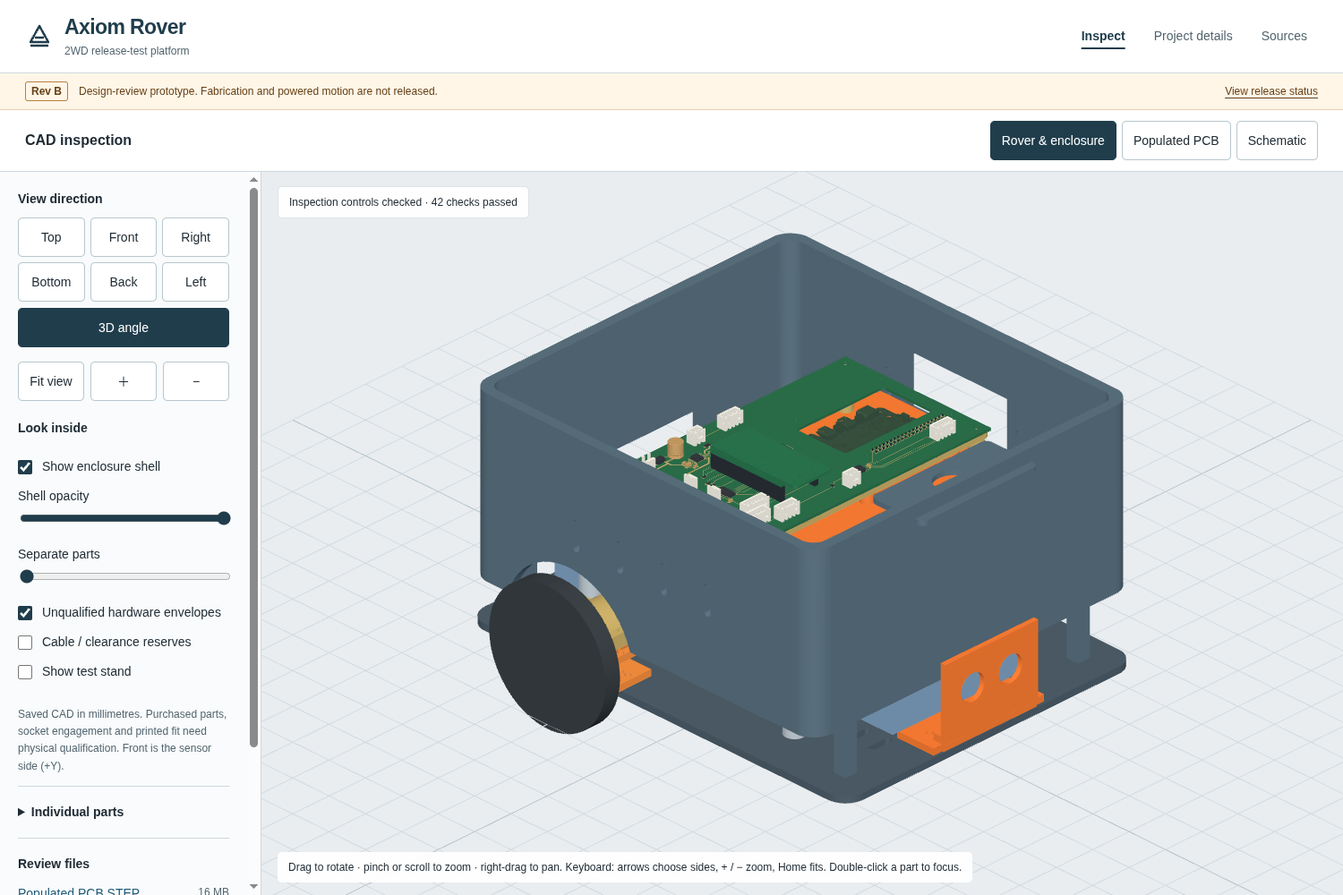
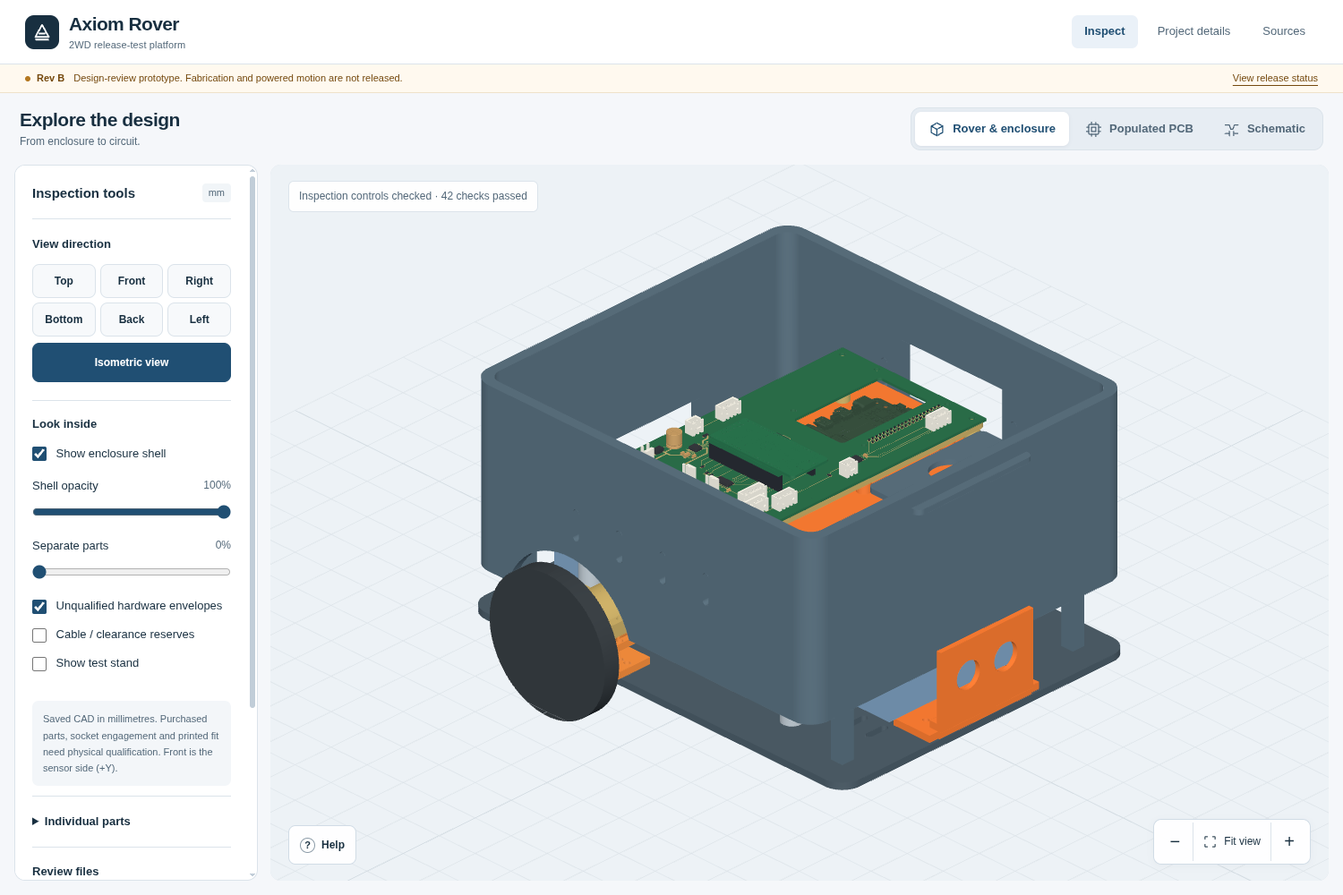
feat(viewer): refine inspection workbench and project UI

diff --git a/viewer/styles.css b/viewer/styles.css
@@ -1,5 +1,194 @@
-:root{color-scheme:light;--ink:#202c35;--muted:#52646e;--blue:#203d4c;--line:#ced8dd;--paper:#fff;--ground:#e9edf0;--accent:#956024;font:14px/1.5 system-ui,-apple-system,BlinkMacSystemFont,"Segoe UI",sans-serif;color:var(--ink);background:#f7f9fa}
-*{box-sizing:border-box}body{margin:0}a{color:#205a79;text-underline-offset:3px}a:hover{color:#102f42}button,input,select{font:inherit}button{min-height:44px;border:1px solid #b8c6ce;background:#fff;color:var(--ink);border-radius:5px;padding:8px 12px;cursor:pointer}button:hover:not(:disabled){background:#e9f0f4}button[aria-pressed=true]{background:var(--blue);border-color:var(--blue);color:white}button:disabled{cursor:default;opacity:.5}:focus-visible{outline:3px solid #1479ac;outline-offset:3px}[hidden]{display:none!important}.skip-link{position:fixed;left:16px;top:-80px;z-index:20;background:white;padding:12px}.skip-link:focus{top:12px}.site-header{min-height:82px;display:flex;align-items:center;justify-content:space-between;gap:20px;padding:16px 28px;background:var(--paper);border-bottom:1px solid var(--line)}.brand{display:flex;gap:12px;align-items:center;text-decoration:none;color:var(--blue);font-size:23px;font-weight:750;line-height:1.2;letter-spacing:-.6px}.brand small{display:block;font-size:12px;font-weight:450;letter-spacing:0;color:var(--muted);margin-top:5px}.site-nav{display:flex;gap:8px}.site-nav a{padding:10px 12px;text-decoration:none;color:var(--muted)}.site-nav a[aria-current=page]{color:var(--blue);font-weight:650;text-decoration:underline;text-decoration-thickness:2px;text-underline-offset:8px}.review-banner{display:flex;align-items:center;gap:12px;padding:9px 28px;background:#fff6e8;border-bottom:1px solid #e6d3b5;font-size:12px;color:#674015}.review-banner a{color:inherit;margin-left:auto;white-space:nowrap}.revision{border:1px solid #b88037;border-radius:3px;padding:1px 6px;font-weight:700;white-space:nowrap}.inspection-bar{display:flex;align-items:center;gap:20px;padding:12px 28px;background:white;border-bottom:1px solid var(--line)}.inspection-bar h1{font-size:16px;margin:0;font-weight:600}.mode-tabs{display:flex;gap:6px;margin-left:auto}.viewer-page{height:100dvh;display:flex;flex-direction:column}.viewer-page main{display:grid;grid-template-columns:292px minmax(0,1fr);grid-template-areas:"controls stage";flex:1;min-height:0}.viewer-page aside{grid-area:controls;overflow:auto;padding:20px;background:#f9fbfc;border-right:1px solid var(--line)}fieldset{padding:0;margin:0 0 16px;border:0;min-width:0}legend,h2{font-size:14px;font-weight:700;margin:0 0 10px;padding:0}label{display:block;margin:12px 0}input[type=range]{width:100%;min-height:24px;accent-color:var(--blue)}input[type=checkbox]{accent-color:var(--blue);width:16px;height:16px;vertical-align:middle;margin:0 7px 0 0}.views{display:grid;grid-template-columns:repeat(3,1fr);gap:6px}.views button{padding:7px 3px}.row{display:flex;gap:7px;margin:10px 0 20px}.row button{flex:1}.full-width{width:100%;margin-top:7px}#stage{grid-area:stage;position:relative;min-width:0;min-height:0;overflow:hidden;background:var(--ground)}canvas{display:block;touch-action:none;width:100%;height:100%}#status{position:absolute;z-index:2;top:16px;left:18px;max-width:calc(100% - 36px);padding:8px 12px;background:#ffffffee;border:1px solid #dce3e7;border-radius:5px;font-size:12px;pointer-events:none}#hint{position:absolute;z-index:2;bottom:14px;left:18px;max-width:calc(100% - 36px);padding:8px 12px;background:#fffffff0;border-radius:5px;font-size:12px;pointer-events:none}#drawing{position:absolute;inset:0;overflow:hidden;background:#f7f5ef;touch-action:none}#drawing img{position:absolute;left:50%;top:50%;max-width:none;user-select:none;pointer-events:none}#load-error{position:absolute;z-index:3;top:50%;left:50%;transform:translate(-50%,-50%);width:min(440px,calc(100% - 32px));padding:24px;background:white;border:1px solid var(--line);border-radius:8px;box-shadow:0 4px 24px #203d4c14}#load-error strong{font-size:20px}#load-error a{display:block;margin-top:12px}#load-error p{overflow-wrap:anywhere}.note{font-size:12px;line-height:1.6;color:var(--muted)}details{border-top:1px solid var(--line);padding:14px 0}summary{cursor:pointer;font-weight:650;padding:4px 0}#parts label{font-size:12px;overflow-wrap:anywhere;min-height:26px;line-height:1.5}.downloads{border-top:1px solid var(--line);padding-top:18px}.downloads a{display:block;margin:12px 0}.downloads span{float:right;font-size:12px;color:var(--muted)}.mobile-controls{display:none}.no-script{position:absolute;z-index:4;inset:0;overflow:auto;background:var(--ground);padding:24px}.no-script img{max-width:100%;max-height:70%;object-fit:contain}.no-script p{max-width:60ch;background:white;padding:16px}.content{max-width:1040px;margin:auto;padding:48px 28px 64px}.content h1{font-size:clamp(30px,4vw,44px);line-height:1.15;letter-spacing:-1.3px;margin:0 0 20px;max-width:22ch}.lead{font-size:18px;line-height:1.65;max-width:62ch;color:var(--muted)}.content h2{font-size:24px;letter-spacing:-.5px;margin:38px 0 16px}.content h3{font-size:16px;margin:22px 0 8px}.content p,.content li{max-width:75ch}.content li{margin-bottom:10px}.project-intro{display:grid;grid-template-columns:1.1fr 1fr;gap:32px;align-items:center}.project-intro figure{margin:0}.project-intro img{width:100%;height:auto;border-radius:6px;border:1px solid var(--line)}.button-link{display:inline-block;background:var(--blue);color:#fff;text-decoration:none;border-radius:5px;padding:11px 16px;margin:8px 8px 8px 0}.button-link:hover{background:#305568;color:#fff}.specs{display:grid;grid-template-columns:1fr 1fr;gap:0 28px;margin:0}.specs>div{border-top:1px solid var(--line);padding:15px 0}.specs dt{font-weight:700;margin-bottom:5px}.specs dd{margin:0;color:var(--muted)}.release-box{padding:22px 24px;border-left:4px solid #b88037;background:#fff6e8}.release-box h2{margin-top:0}.resource-list{display:grid;grid-template-columns:1fr 1fr;gap:0 32px;padding:0;list-style:none}.resource-list li{border-top:1px solid var(--line);padding:14px 0;margin:0}.resource-list small{display:block;margin-top:6px;color:var(--muted)}.site-footer{border-top:1px solid var(--line);padding:24px 28px;display:flex;justify-content:space-between;gap:16px;color:var(--muted);font-size:12px}.site-footer a{margin-left:14px}html{scroll-padding-top:16px}
-@media(max-width:900px){.site-header{padding:14px 20px}.inspection-bar{padding:12px 20px;flex-wrap:wrap;gap:10px}.inspection-bar h1{font-size:14px}.mode-tabs button{font-size:13px;padding:8px 10px}.viewer-page main{grid-template-columns:252px minmax(0,1fr)}.review-banner{padding:9px 20px}.review-banner a{white-space:normal}.viewer-page aside{padding:16px}}
-@media(max-width:700px){.viewer-page{height:auto;min-height:100dvh}.site-header{padding:16px;align-items:flex-start;gap:14px;flex-wrap:wrap}.brand{font-size:22px}.site-nav{gap:0;margin-left:auto}.site-nav a{padding:8px;font-size:13px}.review-banner{padding:10px 16px;align-items:flex-start;gap:8px;flex-wrap:wrap}.review-banner>span:nth-child(2){flex:1;min-width:200px}.review-banner a{margin-left:0}.inspection-bar{padding:12px 16px;gap:10px}.inspection-bar h1{flex:1}.mode-tabs{order:3;flex-basis:100%;margin:0;gap:5px}.mode-tabs button{flex:1;padding:8px 5px;font-size:12px}.mobile-controls{display:inline-block;font-size:12px}.viewer-page main{display:flex;flex-direction:column;min-height:0}.viewer-page #stage{height:62dvh;min-height:360px;max-height:720px;flex:none}.viewer-page aside{padding:22px 20px;border-right:0;border-top:1px solid var(--line);overflow:visible}.viewer-page aside>.mobile-controls{float:right;margin-bottom:12px}#view-controls{clear:both}#status{top:10px;left:10px;max-width:calc(100% - 20px);font-size:11px}#hint{bottom:10px;left:10px;max-width:calc(100% - 20px);font-size:11px}.content{padding:32px 20px 44px}.project-intro{grid-template-columns:1fr;gap:20px}.project-intro img{max-width:520px}.specs,.resource-list{grid-template-columns:1fr}.lead{font-size:16px}.site-footer{padding:22px 20px;flex-direction:column}.site-footer a{margin:0 14px 0 0}}
-@media(prefers-reduced-motion:reduce){*,*::before,*::after{scroll-behavior:auto!important}}
+:root {
+  color-scheme: light;
+  --ink: #182f40;
+  --muted: #536879;
+  --blue: #204f73;
+  --line: #dbe3ea;
+  --paper: #fff;
+  --ground: #edf2f6;
+  --accent: #285fca;
+  font: 14px/1.55 system-ui, -apple-system, BlinkMacSystemFont, "Segoe UI", sans-serif;
+  color: var(--ink);
+  background: #f5f7fa;
+}
+* { box-sizing: border-box; }
+body { margin: 0; }
+a { color: var(--blue); text-underline-offset: 4px; }
+a:hover { color: #12344e; }
+button, input, select { font: inherit; }
+button { min-height: 44px; border: 1px solid var(--line); background: #fff; color: var(--ink); border-radius: 8px; padding: 8px 12px; cursor: pointer; font-weight: 550; }
+button:hover:not(:disabled) { background: #eef4fa; border-color: #9eafc2; }
+button[aria-pressed=true] { color: #fff; background: var(--blue); border-color: var(--blue); }
+button:disabled { cursor: default; opacity: .45; }
+:focus-visible { outline: 3px solid #3976d7; outline-offset: 3px; }
+[hidden] { display: none !important; }
+.icon { width: 19px; height: 19px; flex: none; fill: none; stroke: currentColor; stroke-width: 1.6; stroke-linecap: round; stroke-linejoin: round; vertical-align: middle; }
+.skip-link { position: fixed; left: 16px; top: -80px; z-index: 20; background: white; padding: 12px; }
+.skip-link:focus { top: 12px; }
+.site-header { min-height: 72px; display: flex; align-items: center; justify-content: space-between; gap: 24px; padding: 12px 28px; background: var(--paper); border-bottom: 1px solid var(--line); }
+.brand { display: flex; gap: 11px; align-items: center; color: var(--ink); text-decoration: none; font-size: 21px; font-weight: 750; line-height: 1.15; letter-spacing: -.6px; }
+.brand > svg { width: 38px; height: 38px; padding: 7px; border-radius: 10px; background: var(--ink); color: #fff; }
+.brand small { display: block; font-size: 11px; font-weight: 450; letter-spacing: .1px; color: var(--muted); margin-top: 5px; }
+.site-nav { display: flex; gap: 8px; align-items: center; }
+.site-nav a { padding: 8px 14px; border-radius: 7px; text-decoration: none; color: var(--muted); font-size: 13px; }
+.site-nav a:hover { background: #f3f6f9; }
+.site-nav a[aria-current=page] { color: var(--blue); background: #eaf1f8; font-weight: 650; }
+.review-banner { display: flex; align-items: center; gap: 10px; padding: 7px 28px; background: #fff9ef; border-bottom: 1px solid #eee2ca; font-size: 11px; color: #75490e; }
+.review-banner a { color: inherit; margin-left: auto; white-space: nowrap; }
+.revision { font-weight: 750; white-space: nowrap; }
+.revision::before { content: ""; display: inline-block; width: 6px; height: 6px; border-radius: 50%; background: #b47820; margin-right: 7px; vertical-align: middle; }
+.inspection-bar { display: flex; align-items: center; gap: 24px; padding: 16px 22px; }
+.inspection-title h1 { font-size: 21px; line-height: 1.2; letter-spacing: -.5px; margin: 0; font-weight: 700; }
+.inspection-title p { font-size: 12px; color: var(--muted); margin: 3px 0 0; }
+.mode-tabs { display: flex; gap: 3px; margin-left: auto; padding: 4px; border: 1px solid var(--line); background: #e7edf3; border-radius: 11px; }
+.mode-tabs button { display: flex; align-items: center; justify-content: center; gap: 8px; min-height: 38px; padding: 7px 15px; border: 0; color: var(--muted); background: transparent; font-size: 13px; border-radius: 7px; }
+.mode-tabs button:hover:not(:disabled) { background: #f5f8fb; }
+.mode-tabs button[aria-pressed=true] { color: var(--blue); background: white; box-shadow: 0 1px 4px #24394d14; }
+.viewer-page { height: 100dvh; display: flex; flex-direction: column; }
+.viewer-page main { display: grid; grid-template-columns: 272px minmax(0, 1fr); grid-template-areas: "controls stage"; gap: 14px; padding: 0 16px 16px; flex: 1; min-height: 0; }
+.viewer-page aside { grid-area: controls; overflow: auto; padding: 19px; background: var(--paper); border: 1px solid var(--line); border-radius: 12px; scrollbar-width: thin; scrollbar-color: #c1cdd8 transparent; }
+.panel-heading { display: flex; align-items: center; justify-content: space-between; padding-bottom: 17px; margin-bottom: 18px; border-bottom: 1px solid var(--line); }
+.panel-heading h2 { font-size: 15px; margin: 0; }
+.unit-label { font-size: 11px; color: var(--muted); background: #f1f5f8; padding: 2px 7px; border-radius: 4px; }
+fieldset { padding: 0; margin: 0 0 20px; border: 0; min-width: 0; }
+legend, h2 { font-size: 13px; font-weight: 700; margin: 0 0 12px; padding: 0; }
+label { display: block; margin: 12px 0; font-size: 13px; }
+input[type=range] { display: block; width: 100%; min-height: 24px; margin: 7px 0 0; accent-color: var(--blue); }
+input[type=checkbox] { accent-color: var(--blue); width: 16px; height: 16px; vertical-align: middle; margin: 0 7px 0 0; }
+.range-label { margin: 16px 0; }
+.range-label output { float: right; color: var(--muted); font-size: 12px; font-variant-numeric: tabular-nums; }
+.views { display: grid; grid-template-columns: repeat(3, 1fr); gap: 5px; }
+.views button { padding: 7px 3px; font-size: 12px; min-height: 38px; background: #f7f9fb; }
+.views button[aria-pressed=true] { color: var(--blue); background: #eaf1fb; border-color: #8bacd7; }
+.row { display: flex; gap: 7px; margin: 10px 0 16px; }
+.row button { flex: 1; font-size: 12px; padding: 7px; }
+.full-width { width: 100%; margin-top: 7px; font-size: 12px; }
+#rover-options, #pcb-options { border-top: 1px solid var(--line); padding-top: 16px; }
+#rover-options legend, #pcb-options legend { float: left; width: 100%; }
+#rover-options legend + *, #pcb-options legend + * { clear: both; }
+#stage { grid-area: stage; position: relative; min-width: 0; min-height: 0; overflow: hidden; background: var(--ground); border-radius: 12px; box-shadow: inset 0 0 0 1px #dce4eb; }
+canvas { display: block; touch-action: none; width: 100%; height: 100%; }
+#status { position: absolute; z-index: 2; top: 18px; left: 20px; max-width: calc(100% - 40px); padding: 7px 11px; background: #ffffffed; border: 1px solid #dce4eb; border-radius: 6px; font-size: 12px; color: var(--muted); pointer-events: none; }
+.viewport-tools { position: absolute; z-index: 3; bottom: 18px; left: 20px; right: 20px; display: flex; justify-content: space-between; align-items: flex-end; gap: 12px; pointer-events: none; }
+.viewport-tools > * { pointer-events: auto; }
+.viewport-help { position: relative; border: 0; padding: 0; }
+.viewport-help summary { display: flex; align-items: center; gap: 7px; min-height: 44px; padding: 9px 12px; border: 1px solid #d1dce6; background: #fffffff5; border-radius: 8px; font-size: 12px; font-weight: 550; list-style: none; cursor: pointer; }
+.viewport-help summary::-webkit-details-marker { display: none; }
+.viewport-help summary span { border: 1px solid #8d9ca9; border-radius: 50%; width: 17px; height: 17px; text-align: center; line-height: 15px; font-size: 11px; }
+.viewport-help[open] summary { background: var(--blue); color: #fff; border-color: var(--blue); }
+#hint { position: absolute; bottom: calc(100% + 10px); left: 0; width: 300px; max-width: calc(100vw - 40px); padding: 16px; background: #fff; border: 1px solid var(--line); border-radius: 10px; box-shadow: 0 5px 24px #223c5314; font-size: 12px; line-height: 1.75; margin: 0; }
+.zoom-controls { display: flex; padding: 3px; background: #fffffff5; border: 1px solid #d1dce6; border-radius: 9px; box-shadow: 0 2px 8px #273b4c0a; }
+.zoom-controls button { display: inline-flex; align-items: center; justify-content: center; gap: 8px; min-width: 40px; min-height: 38px; padding: 6px 11px; border: 0; background: transparent; font-size: 20px; font-weight: 450; }
+.zoom-controls #fit { font-size: 12px; border-left: 1px solid var(--line); border-right: 1px solid var(--line); border-radius: 0; }
+.zoom-controls .icon { width: 15px; height: 15px; }
+#drawing { position: absolute; inset: 0; overflow: hidden; background: #f7f5ef; touch-action: none; }
+#drawing img { position: absolute; left: 50%; top: 50%; max-width: none; user-select: none; pointer-events: none; }
+#load-error { position: absolute; z-index: 4; top: 50%; left: 50%; transform: translate(-50%, -50%); width: min(440px, calc(100% - 32px)); padding: 26px; background: white; border: 1px solid var(--line); border-radius: 12px; box-shadow: 0 6px 30px #203d4c14; }
+#load-error strong { font-size: 20px; }
+#load-error a { display: block; margin-top: 12px; }
+#load-error p { overflow-wrap: anywhere; }
+.note { font-size: 12px; line-height: 1.65; color: var(--muted); }
+.model-note { background: #f3f6f9; border-radius: 7px; padding: 11px 12px; font-size: 11px; }
+details { border-top: 1px solid var(--line); padding: 14px 0; }
+summary { cursor: pointer; font-weight: 650; padding: 4px 0; font-size: 13px; }
+#parts label { font-size: 12px; overflow-wrap: anywhere; min-height: 26px; line-height: 1.5; }
+.downloads { border-top: 1px solid var(--line); padding-top: 17px; }
+.downloads a { display: flex; justify-content: space-between; gap: 10px; padding: 9px 0; text-decoration: none; font-size: 12px; }
+.downloads a:hover { text-decoration: underline; }
+.downloads span { font-size: 10px; color: var(--muted); background: #f0f4f7; padding: 1px 5px; border-radius: 4px; align-self: center; white-space: nowrap; }
+.mobile-controls { display: none; }
+.no-script { position: absolute; z-index: 5; inset: 0; overflow: auto; background: var(--ground); padding: 24px; }
+.no-script img { max-width: 100%; max-height: 70%; object-fit: contain; }
+.no-script p { max-width: 60ch; background: white; padding: 16px; }
+.content { max-width: 1160px; margin: auto; padding: 58px 36px 72px; }
+.content h1 { font-size: clamp(34px, 4.2vw, 54px); font-weight: 720; line-height: 1.08; letter-spacing: -1.9px; margin: 0 0 24px; max-width: 18ch; }
+.lead { font-size: 18px; line-height: 1.7; max-width: 52ch; color: var(--muted); }
+.content h2 { font-size: 26px; letter-spacing: -.65px; margin: 44px 0 16px; }
+.content h3 { font-size: 16px; margin: 22px 0 8px; }
+.content p, .content li { max-width: 75ch; }
+.content li { margin-bottom: 10px; }
+.project-intro { display: grid; grid-template-columns: .85fr 1fr; gap: 44px; align-items: center; margin-bottom: 40px; }
+.project-intro figure { margin: 0; }
+.project-intro img { display: block; width: 100%; height: auto; border-radius: 14px; border: 1px solid #d2dde6; }
+.project-intro figcaption { padding: 10px 2px; font-size: 11px; }
+.hero-actions { display: flex; flex-wrap: wrap; align-items: center; gap: 18px; margin-top: 24px; }
+.hero-actions > a { display: inline-flex; align-items: center; white-space: nowrap; font-size: 13px; }
+.button-link { display: inline-flex; align-items: center; gap: 18px; background: var(--blue); color: white; text-decoration: none; border-radius: 8px; padding: 12px 17px; font-weight: 600; }
+.button-link:hover { background: #183e5b; color: white; }
+.page-index { display: flex; flex-wrap: wrap; gap: 8px 24px; padding: 18px 0; border-top: 1px solid var(--line); border-bottom: 1px solid var(--line); margin-bottom: 26px; }
+.page-index a { font-size: 13px; text-decoration: none; padding: 5px 0; font-weight: 600; }
+.page-index a:hover { text-decoration: underline; }
+.project-context { color: var(--muted); }
+.specs { display: grid; grid-template-columns: 1fr 1fr; gap: 0 40px; margin: 24px 0 38px; }
+.specs > div { border-top: 1px solid var(--line); padding: 18px 0; }
+.specs dt { font-size: 13px; font-weight: 700; margin-bottom: 8px; }
+.specs dd { margin: 0; color: var(--muted); font-size: 14px; line-height: 1.7; }
+.release-box { padding: 28px 30px; border: 1px solid #e7d6b9; border-left: 4px solid #b88037; background: #fffaef; border-radius: 0 12px 12px 0; }
+.release-box h2 { margin-top: 0; font-size: 23px; }
+.resource-list { display: grid; grid-template-columns: 1fr 1fr; gap: 0 32px; padding: 0; list-style: none; }
+.resource-list > * { border-top: 1px solid var(--line); padding: 18px 0; margin: 0; }
+.resource-list a { font-weight: 600; font-size: 14px; }
+.resource-list small { display: block; margin-top: 6px; color: var(--muted); font-size: 12px; }
+.credits-page .content { max-width: 900px; }
+.credits-page .content > ul { list-style: none; padding: 0; margin-top: 32px; }
+.credits-page .content > ul > li { padding: 20px 0; border-top: 1px solid var(--line); line-height: 1.8; }
+.site-footer { border-top: 1px solid var(--line); padding: 24px 28px; display: flex; justify-content: space-between; gap: 16px; color: var(--muted); font-size: 12px; }
+.site-footer a { margin-left: 14px; }
+html { scroll-padding-top: 20px; }
+@media (max-width: 1000px) {
+  .site-header { padding: 12px 20px; }
+  .inspection-bar { gap: 14px; }
+  .inspection-title h1 { font-size: 18px; }
+  .mode-tabs button { padding: 7px 10px; font-size: 12px; }
+  .viewer-page main { grid-template-columns: 250px minmax(0, 1fr); }
+  .viewer-page aside { padding: 16px; }
+  .review-banner { padding: 7px 20px; }
+  .project-intro { gap: 28px; }
+  .content { padding: 42px 28px 60px; }
+}
+@media (max-width: 700px) {
+  .viewer-page { height: auto; min-height: 100dvh; }
+  .site-header { padding: 13px 16px 10px; flex-wrap: wrap; gap: 12px; }
+  .brand { font-size: 20px; }
+  .brand > svg { width: 34px; height: 34px; }
+  .brand small { font-size: 10px; }
+  .site-nav { gap: 5px; width: 100%; }
+  .site-nav a { padding: 7px 13px; text-align: center; font-size: 12px; flex: 1; }
+  .review-banner { padding: 9px 16px; gap: 5px 8px; flex-wrap: wrap; }
+  .review-banner > span:nth-child(2) { flex: 1; min-width: 200px; }
+  .review-banner a { margin-left: 0; }
+  .inspection-bar { padding: 14px 14px 12px; flex-wrap: wrap; gap: 12px; }
+  .inspection-title { flex: 1; }
+  .inspection-title h1 { font-size: 18px; }
+  .inspection-title p { display: none; }
+  .mode-tabs { order: 3; width: 100%; margin: 0; gap: 2px; padding: 3px; }
+  .mode-tabs button { flex: 1; padding: 8px 5px; font-size: 11px; gap: 5px; }
+  .mode-tabs .icon { width: 15px; height: 15px; }
+  .mobile-controls { display: inline-block; font-size: 12px; }
+  .viewer-page main { display: flex; flex-direction: column; padding: 0; gap: 0; min-height: 0; }
+  .viewer-page #stage { height: 62dvh; min-height: 360px; max-height: 720px; flex: none; border-radius: 0; box-shadow: none; }
+  .viewer-page aside { padding: 22px 20px; border-radius: 0; border: 0; border-top: 1px solid var(--line); overflow: visible; }
+  .viewer-page aside > .mobile-controls { display: block; margin: -5px 0 20px; }
+  .panel-heading { margin-bottom: 14px; }
+  .views button { min-height: 44px; }
+  #status { top: 12px; left: 14px; max-width: calc(100% - 28px); font-size: 11px; }
+  .viewport-tools { bottom: 14px; left: 14px; right: 14px; }
+  .zoom-controls button { min-height: 40px; }
+  .content { padding: 34px 22px 48px; }
+  .content h1 { font-size: 38px; letter-spacing: -1.4px; max-width: 17ch; }
+  .project-intro { grid-template-columns: 1fr; gap: 28px; margin-bottom: 20px; }
+  .project-intro img { max-width: 520px; }
+  .hero-actions { gap: 15px; }
+  .page-index { gap: 8px 20px; padding: 14px 0; }
+  .page-index a { font-size: 12px; }
+  .specs, .resource-list { grid-template-columns: 1fr; }
+  .specs { margin-top: 20px; }
+  .specs > div { padding: 16px 0; }
+  .lead { font-size: 16px; }
+  .release-box { padding: 23px 20px; }
+  .site-footer { padding: 22px 20px; flex-direction: column; }
+  .site-footer a { margin: 0 14px 0 0; }
+}
+@media (prefers-reduced-motion: reduce) {
+  *, *::before, *::after { scroll-behavior: auto !important; }
+}

diff --git a/viewer/index.html b/viewer/index.html
@@ -25,24 +25,27 @@
     <nav class="site-nav" aria-label="Site"><a href="./" aria-current="page">Inspect</a><a href="project.html">Project details</a><a href="credits.html">Sources</a></nav>
   </header>
   <div class="review-banner"><span class="revision">Rev B</span><span>Design-review prototype. Fabrication and powered motion are not released.</span><a href="project.html#release">View release status</a></div>
-  <div class="inspection-bar"><h1>CAD inspection</h1><nav class="mode-tabs" aria-label="Inspection mode"><button data-mode="rover" aria-pressed="true">Rover &amp; enclosure</button><button data-mode="pcb" aria-pressed="false">Populated PCB</button><button data-mode="schematic" aria-pressed="false">Schematic</button></nav><a class="mobile-controls" href="#controls">Controls ↓</a></div>
+  <div class="inspection-bar"><div class="inspection-title"><h1>Explore the design</h1><p>From enclosure to circuit.</p></div><nav class="mode-tabs" aria-label="Inspection mode"><button data-mode="rover" aria-pressed="true"><svg class="icon" viewBox="0 0 24 24" aria-hidden="true"><path d="m12 3 8 4.5v9L12 21l-8-4.5v-9L12 3Zm0 9 8-4.5M12 12 4 7.5M12 12v9"/></svg>Rover &amp; enclosure</button><button data-mode="pcb" aria-pressed="false"><svg class="icon" viewBox="0 0 24 24" aria-hidden="true"><rect x="5" y="5" width="14" height="14" rx="2"/><path d="M9 9h6v6H9zM9 2v3m6-3v3M9 19v3m6-3v3M2 9h3m-3 6h3M19 9h3m-3 6h3"/></svg>Populated PCB</button><button data-mode="schematic" aria-pressed="false"><svg class="icon" viewBox="0 0 24 24" aria-hidden="true"><path d="M3 6h6l2 6h3l2-6h5M3 18h6m6 0h6M9 15v6m6-6v6"/></svg>Schematic</button></nav><a class="mobile-controls" href="#controls">Inspection tools</a></div>
   <main id="inspection" tabindex="-1">
     <section id="stage" aria-label="CAD and drawing viewport" aria-describedby="hint" tabindex="0">
       <div id="status" role="status" aria-live="polite">Loading CAD geometry…</div>
       <div id="load-error" hidden><strong>3D inspection is unavailable</strong><p id="error-detail"></p><button id="retry">Retry 3D loading</button><a href="?mode=schematic">Open the schematic</a><a href="project.html">Read project details</a></div>
       <div id="drawing" hidden><img alt="Circuit drawing" draggable="false"></div>
-      <div id="hint">Drag to rotate · pinch or scroll to zoom · right-drag to pan.<br>Keyboard: arrows rotate, + / − zoom, Home fits. Double-click a part to focus.</div>
+      <div class="viewport-tools">
+        <details class="viewport-help"><summary><span aria-hidden="true">?</span> Help</summary><p id="hint">Drag to rotate, pinch or scroll to zoom, right-drag to pan. Keyboard: arrows choose sides, + / − zoom, Home fits. Double-click a part to focus.</p></details>
+        <div class="zoom-controls" role="group" aria-label="Viewport zoom"><button id="out" aria-label="Zoom out" disabled>−</button><button id="fit" disabled><svg class="icon" viewBox="0 0 24 24" aria-hidden="true"><path d="M8 3H3v5m13-5h5v5M3 16v5h5m13-5v5h-5"/></svg>Fit view</button><button id="in" aria-label="Zoom in" disabled>+</button></div>
+      </div>
       <noscript><div class="no-script"><img src="rover-preview.png" alt="Reference CAD of the rover's enclosure and populated carrier"><p>Enable JavaScript for interactive inspection. <a href="project.html">Project details</a>, <a href="../electronics/out/schematic/carrier.svg">the schematic</a> and <a href="carrier-populated.step" download>CAD downloads</a> remain available.</p></div></noscript>
     </section>
     <aside id="controls" aria-label="Inspection controls" tabindex="-1">
-      <a class="mobile-controls" href="#stage">Back to model ↑</a>
-      <fieldset id="view-controls" disabled><legend>View direction</legend><div class="views"><button data-view="top">Top</button><button data-view="front">Front</button><button data-view="right">Right</button><button data-view="bottom">Bottom</button><button data-view="back">Back</button><button data-view="left">Left</button></div><button id="iso" class="full-width" aria-pressed="true">3D angle</button></fieldset>
-      <div class="row"><button id="fit" disabled>Fit view</button><button id="in" aria-label="Zoom in" disabled>＋</button><button id="out" aria-label="Zoom out" disabled>−</button></div>
-      <fieldset id="rover-options" disabled><legend>Look inside</legend><label><input id="shell" type="checkbox" checked> Show enclosure shell</label><label>Shell opacity <input id="opacity" type="range" min="0.08" max="1" step=".02" value="1"></label><label>Separate parts <input id="explode" type="range" min="0" max="1" step=".02" value="0"></label><label><input id="envelopes" type="checkbox" checked> Unqualified hardware envelopes</label><label><input id="reserves" type="checkbox"> Cable / clearance reserves</label><label><input id="stand" type="checkbox"> Show test stand</label></fieldset>
+      <div class="panel-heading"><h2>Inspection tools</h2><span class="unit-label">mm</span></div><a class="mobile-controls" href="#stage">Back to model ↑</a>
+      <fieldset id="view-controls" disabled><legend>View direction</legend><div class="views"><button data-view="top">Top</button><button data-view="front">Front</button><button data-view="right">Right</button><button data-view="bottom">Bottom</button><button data-view="back">Back</button><button data-view="left">Left</button></div><button id="iso" class="full-width" aria-pressed="true">Isometric view</button></fieldset>
+
+      <fieldset id="rover-options" disabled><legend>Look inside</legend><label><input id="shell" type="checkbox" checked> Show enclosure shell</label><label class="range-label" for="opacity">Shell opacity <output id="opacity-value" for="opacity" aria-hidden="true">100%</output><input id="opacity" type="range" min="0.08" max="1" step=".02" value="1"></label><label class="range-label" for="explode">Separate parts <output id="explode-value" for="explode" aria-hidden="true">0%</output><input id="explode" type="range" min="0" max="1" step=".02" value="0"></label><label><input id="envelopes" type="checkbox" checked> Unqualified hardware envelopes</label><label><input id="reserves" type="checkbox"> Cable / clearance reserves</label><label><input id="stand" type="checkbox"> Show test stand</label></fieldset>
       <fieldset id="pcb-options" disabled hidden><legend>Board detail</legend><label><input id="components" type="checkbox" checked> Show components</label><div class="row"><button data-drawing="top" aria-pressed="false">Top routing</button><button data-drawing="bottom" aria-pressed="false">Bottom routing</button></div><button id="board3d" class="full-width">Return to 3D board</button></fieldset>
-      <p class="note" id="disclaimer">Saved CAD in millimetres. Physical fit and socket engagement remain unqualified. Front is the sensor side (+Y).</p>
+      <p class="note model-note" id="disclaimer">Saved CAD in millimetres. Physical fit and socket engagement remain unqualified. Front is the sensor side (+Y).</p>
       <details id="parts-panel"><summary>Individual parts</summary><div id="parts"><p class="note">Available when geometry has loaded.</p></div></details>
-      <div class="downloads"><h2>Review files</h2><a href="carrier-populated.step" download>Populated PCB STEP <span>16 MB</span></a><a href="../electronics/out/schematic/carrier.svg">Electrical schematic <span>SVG</span></a><a href="project.html">Specifications &amp; documentation</a><a href="credits.html">CAD sources &amp; licenses</a></div>
+      <div class="downloads"><h2>Review files</h2><a href="carrier-populated.step" download>Populated PCB STEP <span>16 MB</span></a><a href="../electronics/out/schematic/carrier.svg">Electrical schematic <span>SVG</span></a><a href="project.html">Specifications &amp; docs</a><a href="credits.html">CAD sources &amp; licenses</a></div>
       <p class="note">Reference geometry only. <a href="project.html#release">See what still needs verification.</a></p>
     </aside>
   </main>

diff --git a/viewer/project.html b/viewer/project.html
@@ -6,12 +6,12 @@
   <meta property="og:title" content="Axiom Rover · Project details"><meta property="og:description" content="A reusable 2WD release-test platform. Explore the design and the evidence still required before fabrication or powered motion."><meta property="og:type" content="website"><meta property="og:image" content="https://axiom-rover.vercel.app/viewer/rover-preview.png"><meta property="og:image:alt" content="Reference CAD of the Axiom Rover"><meta name="twitter:card" content="summary_large_image">
   <link rel="canonical" href="https://axiom-rover.vercel.app/viewer/project.html"><link rel="icon" href="favicon.svg" type="image/svg+xml"><link rel="stylesheet" href="styles.css"><title>Axiom Rover · Project details</title>
 </head>
-<body>
+<body class="project-page">
   <a class="skip-link" href="#content">Skip to project details</a>
   <header class="site-header"><a class="brand" href="./"><svg viewBox="0 0 32 32" width="32" height="32" aria-hidden="true"><path d="M6 23 16 5l10 18H6Zm5-5h10M6 27h20" fill="none" stroke="currentColor" stroke-width="2.5" stroke-linejoin="round"/></svg><span>Axiom Rover<small>2WD release-test platform</small></span></a><nav class="site-nav" aria-label="Site"><a href="./">Inspect</a><a href="project.html" aria-current="page">Project details</a><a href="credits.html">Sources</a></nav></header>
   <div class="review-banner"><span class="revision">Rev B</span><span>Design-review prototype. Fabrication and powered motion are not released.</span><a href="#release">View release status</a></div>
   <main class="content" id="content" tabindex="-1">
-    <section class="project-intro"><div><h1>A repeatable platform for release testing.</h1><p class="lead">Axiom Rover is a reusable two-wheel-drive robot design: a fixed Shrike / RP2040 + ForgeFPGA actuator base, a removable compute tray, an independent motor-power stop and a wheels-raised test stand.</p><p>It is intended to collect evidence for named AxiomOS releases and fault cases. This is an independent hardware repository; it does not implement or validate the control firmware, or prove AxiomOS correct under every condition.</p><a class="button-link" href="./">Inspect the 3D assembly</a><a href="#docs-title">Design documentation</a></div><figure><img src="rover-preview.png" width="1148" height="768" alt="Reference CAD showing the rover deck, wheels and populated carrier inside the enclosure"><figcaption class="note">Reference CAD, not a photograph of built hardware.</figcaption></figure></section>
+    <section class="project-intro"><div><h1>A rover designed for repeatable tests.</h1><p class="lead">A two-wheel-drive reference design with a removable compute tray, a Shrike controller and an independent motor-power stop.</p><div class="hero-actions"><a class="button-link" href="./">Explore in 3D<svg class="icon" viewBox="0 0 24 24" aria-hidden="true"><path d="m12 3 8 4.5v9L12 21l-8-4.5v-9L12 3Zm0 9 8-4.5M12 12 4 7.5M12 12v9"/></svg></a><a href="#docs-title">Design documentation</a></div></div><figure><img src="rover-preview.png" width="1148" height="768" alt="Reference CAD showing the rover deck, wheels and populated carrier inside the enclosure"><figcaption class="note">Rev B reference assembly. Enclosure hidden; physical fit unverified.</figcaption></figure></section><nav class="page-index" aria-label="Project sections"><a href="#spec-title">Specifications</a><a href="#release">Release status</a><a href="#budget-title">Budget</a><a href="#docs-title">Documentation</a></nav><div class="project-context"><p>It is intended to collect evidence for named AxiomOS releases and fault cases. This is an independent hardware repository; it does not implement or validate the control firmware, or prove AxiomOS correct under every condition.</p></div>
     <section aria-labelledby="spec-title"><h2 id="spec-title">The Rev B design</h2><p>Dimensions and electrical values below describe the design intent. Purchased-part fit and operating performance have not been measured.</p><dl class="specs"><div><dt>Chassis</dt><dd>200 × 260 × 4 mm PETG deck, removable enclosure and compute tray.</dd></div><div><dt>Carrier board</dt><dd>160 × 100 × 1.6 mm, two layers, with a cooler aperture.</dd></div><div><dt>Compute &amp; controller</dt><dd>Pi 5 below the carrier at a nominal 16.5 mm gap. One Shrike R0.4 plugs into two 19-position sockets above.</dd></div><div><dt>Drive</dt><dd>Two ThinkRobotics MOT3001-6V60RPM encoder motors; Pololu 3690 wheels, 80 × 10 mm with 4 mm D-bore collets.</dd></div><div><dt>Motor driver</dt><dd>Onboard DRV8833 (PWP package). Current regulation targets 1 A per channel; current and thermal behavior require bench measurements.</dd></div><div><dt>Sensor interfaces</dt><dd>HC-SR04 distance sensor, left/right wheel encoders and a 3.3 V IMU interface. Delivered pin order and sensor behavior need verification.</dd></div><div><dt>Power &amp; stop</dt><dd>Separate host, controller and sensor supplies; external regulated 6 V motor source, fuse and normally-open stop relay.</dd></div><div><dt>Qualification targets</dt><dd>Indoor level-floor use, mass at or below 2 kg, initial motion below 0.2 m/s. These are targets to qualify, not demonstrated capabilities.</dd></div></dl></section>
     <section class="release-box" id="release" aria-labelledby="release-title"><h2 id="release-title">Release status: review only</h2><p><strong>Fabrication: not released. Powered motion: not released. Physical tests: not run.</strong></p><p>Nothing has been purchased, fabricated, flashed or physically tested in this repository. CAD, electrical checks and browser checks are design evidence; they do not establish physical fit or safe operation.</p><p>Open gates include purchased-part dimensions and dry fit, exact order codes and vendor quotes, independent electrical/mechanical review, power and backfeed measurements, validated controller timing, stop/watchdog captures, and raised-wheel and thermal tests.</p><a href="../release-gates.json">Read the recorded release gates (JSON)</a></section>
     <section aria-labelledby="review-title"><h2 id="review-title">Before fabrication or power</h2><p>Use the electrical contract and commissioning procedure for the full acceptance criteria. Initial controller checks require motor power disconnected. Power off before compute swaps; Pi connector J1 and alternate-host connector J12 must never be used together.</p><p>The independent motor-power stop, fuse, relay, wiring and supply need physical qualification. A successful software test or rendered model does not authorize powered motion.</p><div class="resource-list"><div><a href="../docs/electrical-contract.md" download>Electrical and harness contract (Markdown)</a><p class="note">Connector pin maps, supply boundaries and motor-stop design.</p></div><div><a href="../docs/commissioning.md" download>Commissioning &amp; acceptance procedure (Markdown)</a><p class="note">Dry fit, continuity, partial-power, stop and thermal checks.</p></div></div></section>

diff --git a/viewer/app.js b/viewer/app.js
@@ -14,6 +14,8 @@ const fill = new T.DirectionalLight(0xd3e7ff, 1.3);
 fill.position.set(-150, -250, -150);
 scene.add(ambient, key, fill);
 const grid = new T.GridHelper(700, 28, 0xb7c3cb, 0xd2dae0);
+grid.material.transparent = true;
+grid.material.opacity = .45;
 grid.rotation.x = Math.PI / 2;
 grid.position.z = -50;
 scene.add(grid);
@@ -43,7 +45,7 @@ function initRenderer() {
   try { renderer = new T.WebGLRenderer({antialias:true}); }
   catch { throw Error('This browser cannot start WebGL2. Enable hardware acceleration or try another browser. The schematic and downloads are still available.'); }
   renderer.setPixelRatio(Math.min(devicePixelRatio, 2));
-  renderer.setClearColor(0xe9edf0);
+  renderer.setClearColor(0xedf2f6);
   renderer.domElement.setAttribute('aria-label', 'Interactive reference CAD. Use the view controls or keyboard to inspect each side.');
   renderer.domElement.setAttribute('role', 'img');
   stage.prepend(renderer.domElement);
@@ -198,7 +200,10 @@ document.querySelectorAll('[data-view]').forEach(b => b.onclick = () => { closeD
 function mesh(data){const g=new T.BufferGeometry();g.setAttribute('position',new T.Float32BufferAttribute(data.positions,3));g.setIndex(data.indices);g.computeVertexNormals();const color=Array.isArray(data.color)?new T.Color(...data.color):new T.Color(data.color);const mat=new T.MeshStandardMaterial({color,roughness:.58,metalness:.08,side:T.DoubleSide});const m=new T.Mesh(g,mat);m.name=data.name;m.userData.enabled=true;return m;}
 function reserve(n){return /SWEEP|cooler|shrike_.*UNMEASURED_ENVELOPE|socket.*REFERENCE|DRAWING_REFERENCE|CONTRACT_REFERENCE/.test(n);}
 function replaced(n){return /carrier_tails_CLEARANCE_REFERENCE|carrier_pcb_CONTRACT|shrike_actualCAD|shrike_pcbCAD|shrike_male_|shrike_.*socket_REFERENCE|pi_socket_ESQ_REFERENCE|pi5_DRAWING_REFERENCE/.test(n);}
-function apply(){grid.position.z=$('#stand').checked?-48:-15;const e=Number($('#explode').value);for(const m of parts){const n=m.name;m.visible=!replaced(n)&&m.userData.enabled&&(!n.includes('ENVELOPE')||$('#envelopes').checked)&&(!reserve(n)||$('#reserves').checked)&&(n!=='vented_shell'||$('#shell').checked)&&(n!=='test_stand'||$('#stand').checked);m.position.set(0,0,0);if(n==='vented_shell')m.position.z=e*170;else if(n==='tray'||n.startsWith('pi5_')||n==='pi_cooler_max_ENVELOPE')m.position.z=e*60;else if(n==='carrier_frame')m.position.z=e*95;else if(n==='carrier_posts')m.position.z=e*60;else if(n==='tray_posts')m.position.z=e*30;else if(n.includes('wheel'))m.position.x=(n.includes('left')?-1:1)*e*80;else if(n.includes('shrike'))m.position.z=e*95;else if(n.includes('pack'))m.position.z=e*20;
+function apply(){
+$('#opacity-value').value = Math.round(Number($('#opacity').value) * 100) + '%';
+$('#explode-value').value = Math.round(Number($('#explode').value) * 100) + '%';
+grid.position.z=$('#stand').checked?-48:-15;const e=Number($('#explode').value);for(const m of parts){const n=m.name;m.visible=!replaced(n)&&m.userData.enabled&&(!n.includes('ENVELOPE')||$('#envelopes').checked)&&(!reserve(n)||$('#reserves').checked)&&(n!=='vented_shell'||$('#shell').checked)&&(n!=='test_stand'||$('#stand').checked);m.position.set(0,0,0);if(n==='vented_shell')m.position.z=e*170;else if(n==='tray'||n.startsWith('pi5_')||n==='pi_cooler_max_ENVELOPE')m.position.z=e*60;else if(n==='carrier_frame')m.position.z=e*95;else if(n==='carrier_posts')m.position.z=e*60;else if(n==='tray_posts')m.position.z=e*30;else if(n.includes('wheel'))m.position.x=(n.includes('left')?-1:1)*e*80;else if(n.includes('shrike'))m.position.z=e*95;else if(n.includes('pack'))m.position.z=e*20;
 const opacity=n==='vented_shell'?Number($('#opacity').value):reserve(n)?.2:1;m.material.opacity=opacity;m.material.transparent=opacity<1;m.material.depthWrite=opacity===1;
 }
 assemblyPCB.position.z=107.1+e*95;

diff --git a/viewer/credits.html b/viewer/credits.html
@@ -1,7 +1,7 @@
 <!doctype html>
 <html lang="en"><head><meta charset="utf-8"><meta name="viewport" content="width=device-width,initial-scale=1"><title>Axiom Rover · CAD sources</title>
-<meta name="description" content="Axiom Rover CAD model provenance, reference limitations, original notices and third-party licenses."><link rel="icon" href="favicon.svg" type="image/svg+xml"><link rel="stylesheet" href="styles.css"><link rel="canonical" href="https://axiom-rover.vercel.app/viewer/credits.html"></head><body>
-<header class="site-header"><a class="brand" href="./"><span>Axiom Rover<small>2WD release-test platform</small></span></a><nav class="site-nav" aria-label="Site"><a href="./">Inspect</a><a href="project.html">Project details</a><a href="credits.html" aria-current="page">Sources</a></nav></header><main class="content"><h1>CAD sources and attribution</h1>
+<meta name="description" content="Axiom Rover CAD model provenance, reference limitations, original notices and third-party licenses."><link rel="icon" href="favicon.svg" type="image/svg+xml"><link rel="stylesheet" href="styles.css"><link rel="canonical" href="https://axiom-rover.vercel.app/viewer/credits.html"></head><body class="credits-page">
+<header class="site-header"><a class="brand" href="./"><svg viewBox="0 0 32 32" width="32" height="32" aria-hidden="true"><path d="M6 23 16 5l10 18H6Zm5-5h10M6 27h20" fill="none" stroke="currentColor" stroke-width="2.5" stroke-linejoin="round"/></svg><span>Axiom Rover<small>2WD release-test platform</small></span></a><nav class="site-nav" aria-label="Site"><a href="./">Inspect</a><a href="project.html">Project details</a><a href="credits.html" aria-current="page">Sources</a></nav></header><main class="content"><h1>CAD sources and attribution</h1>
 <p>Axiom Rover is an independent Rev B review prototype. Physical fit, power, thermal behavior and powered motion remain unqualified. Downloading the CAD does not release it for fabrication.</p>
 <ul>
 <li>Three.js and OrbitControls 0.180.0: <a href="vendor/LICENSE">MIT license and attribution</a>.</li>
